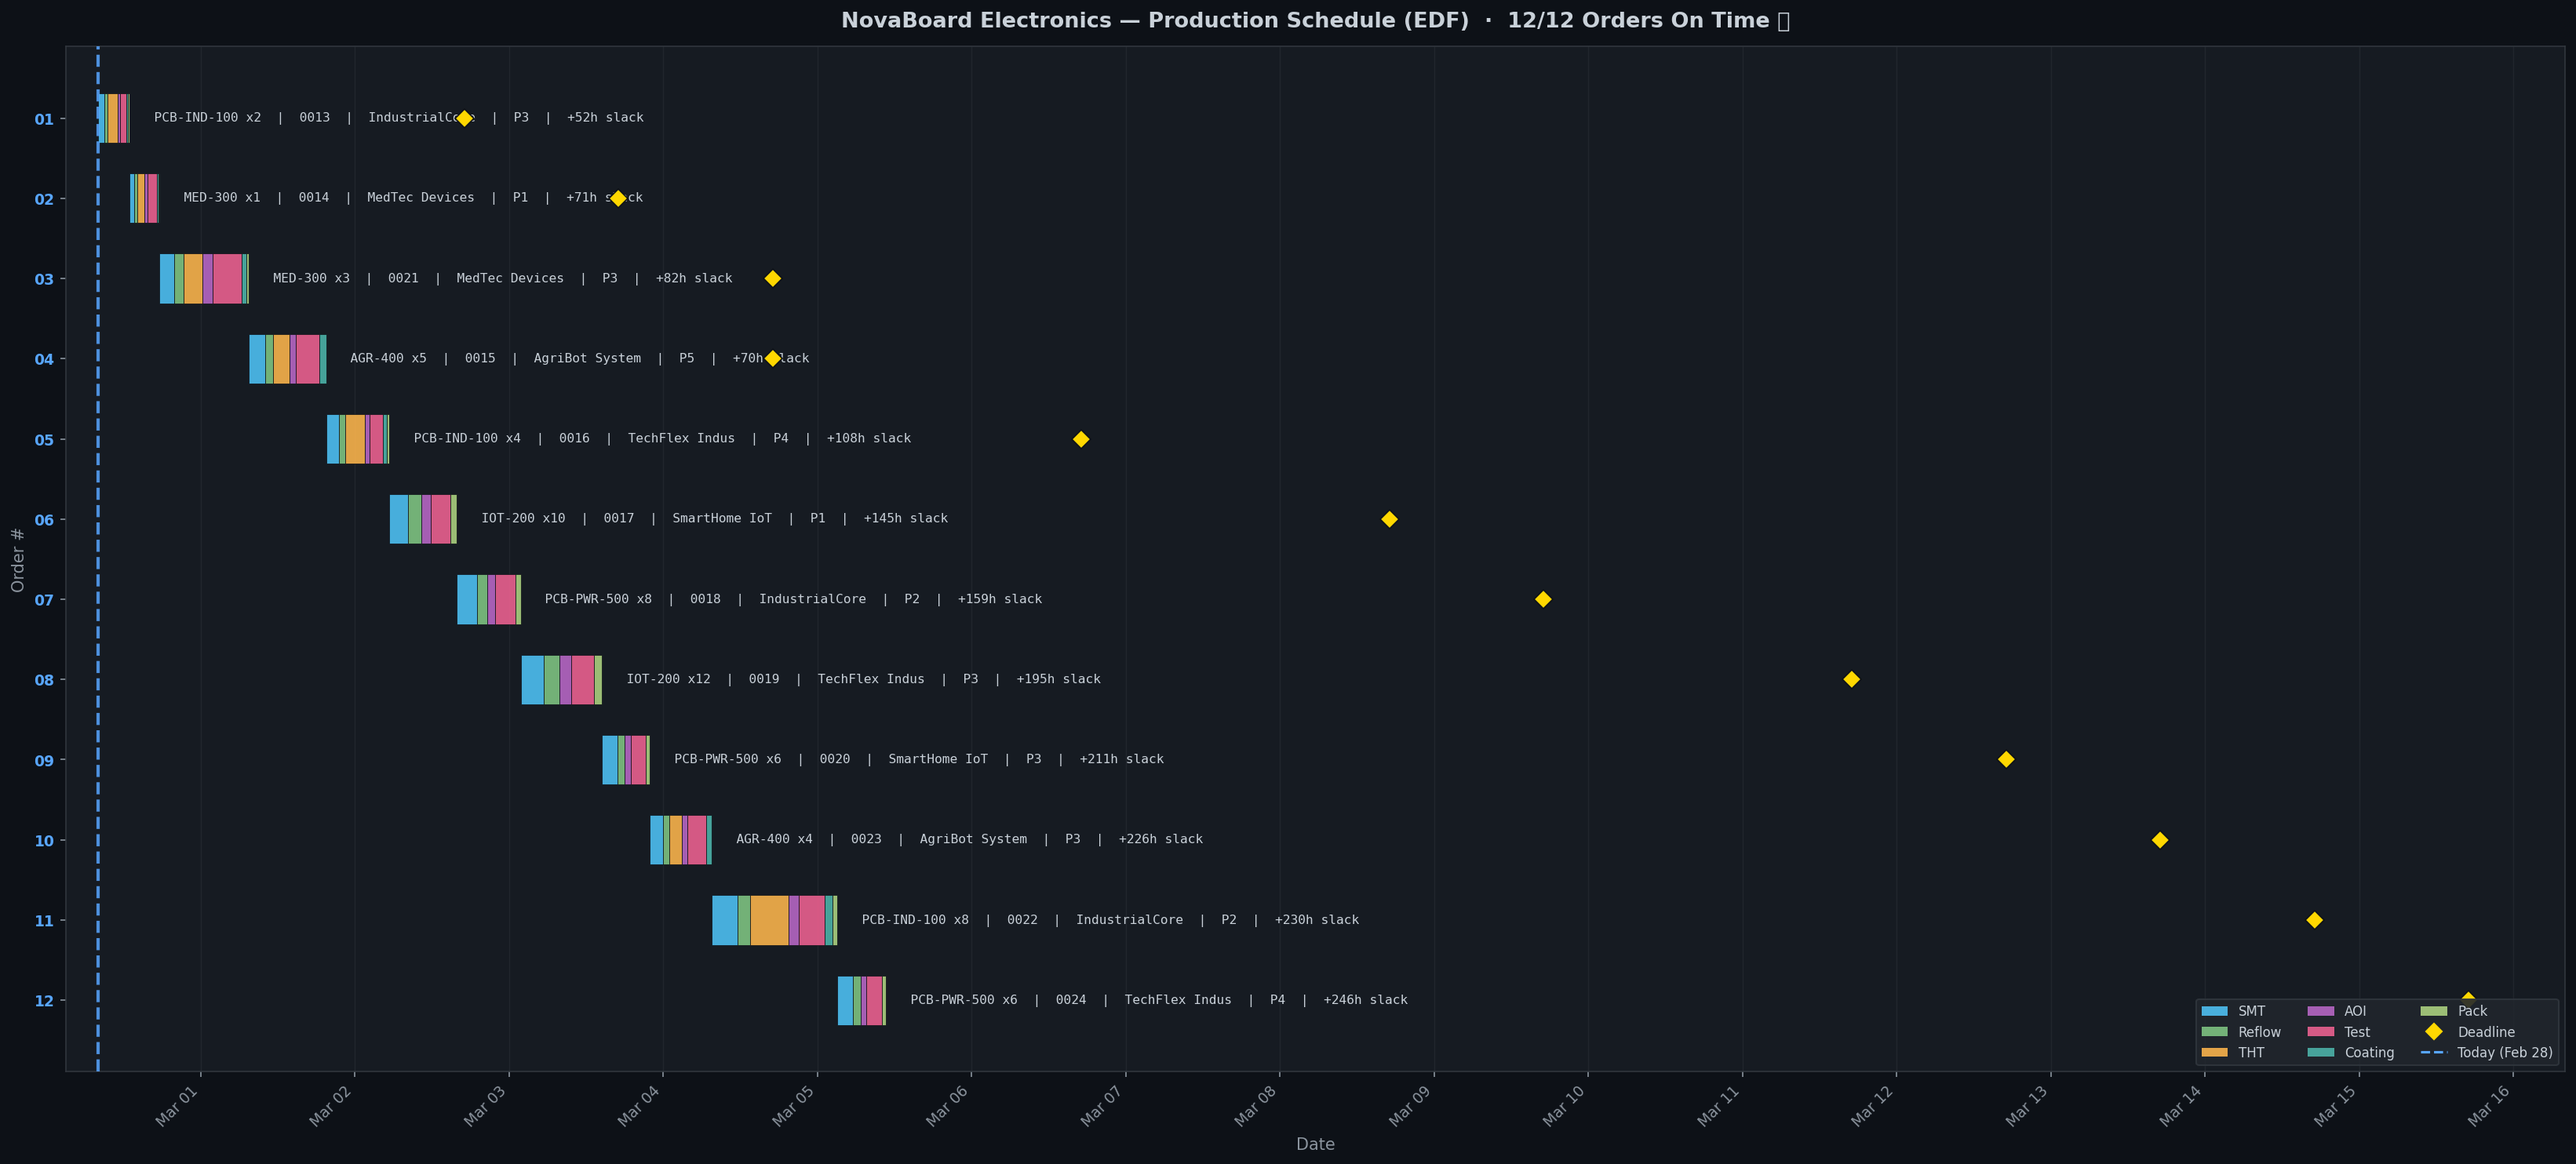
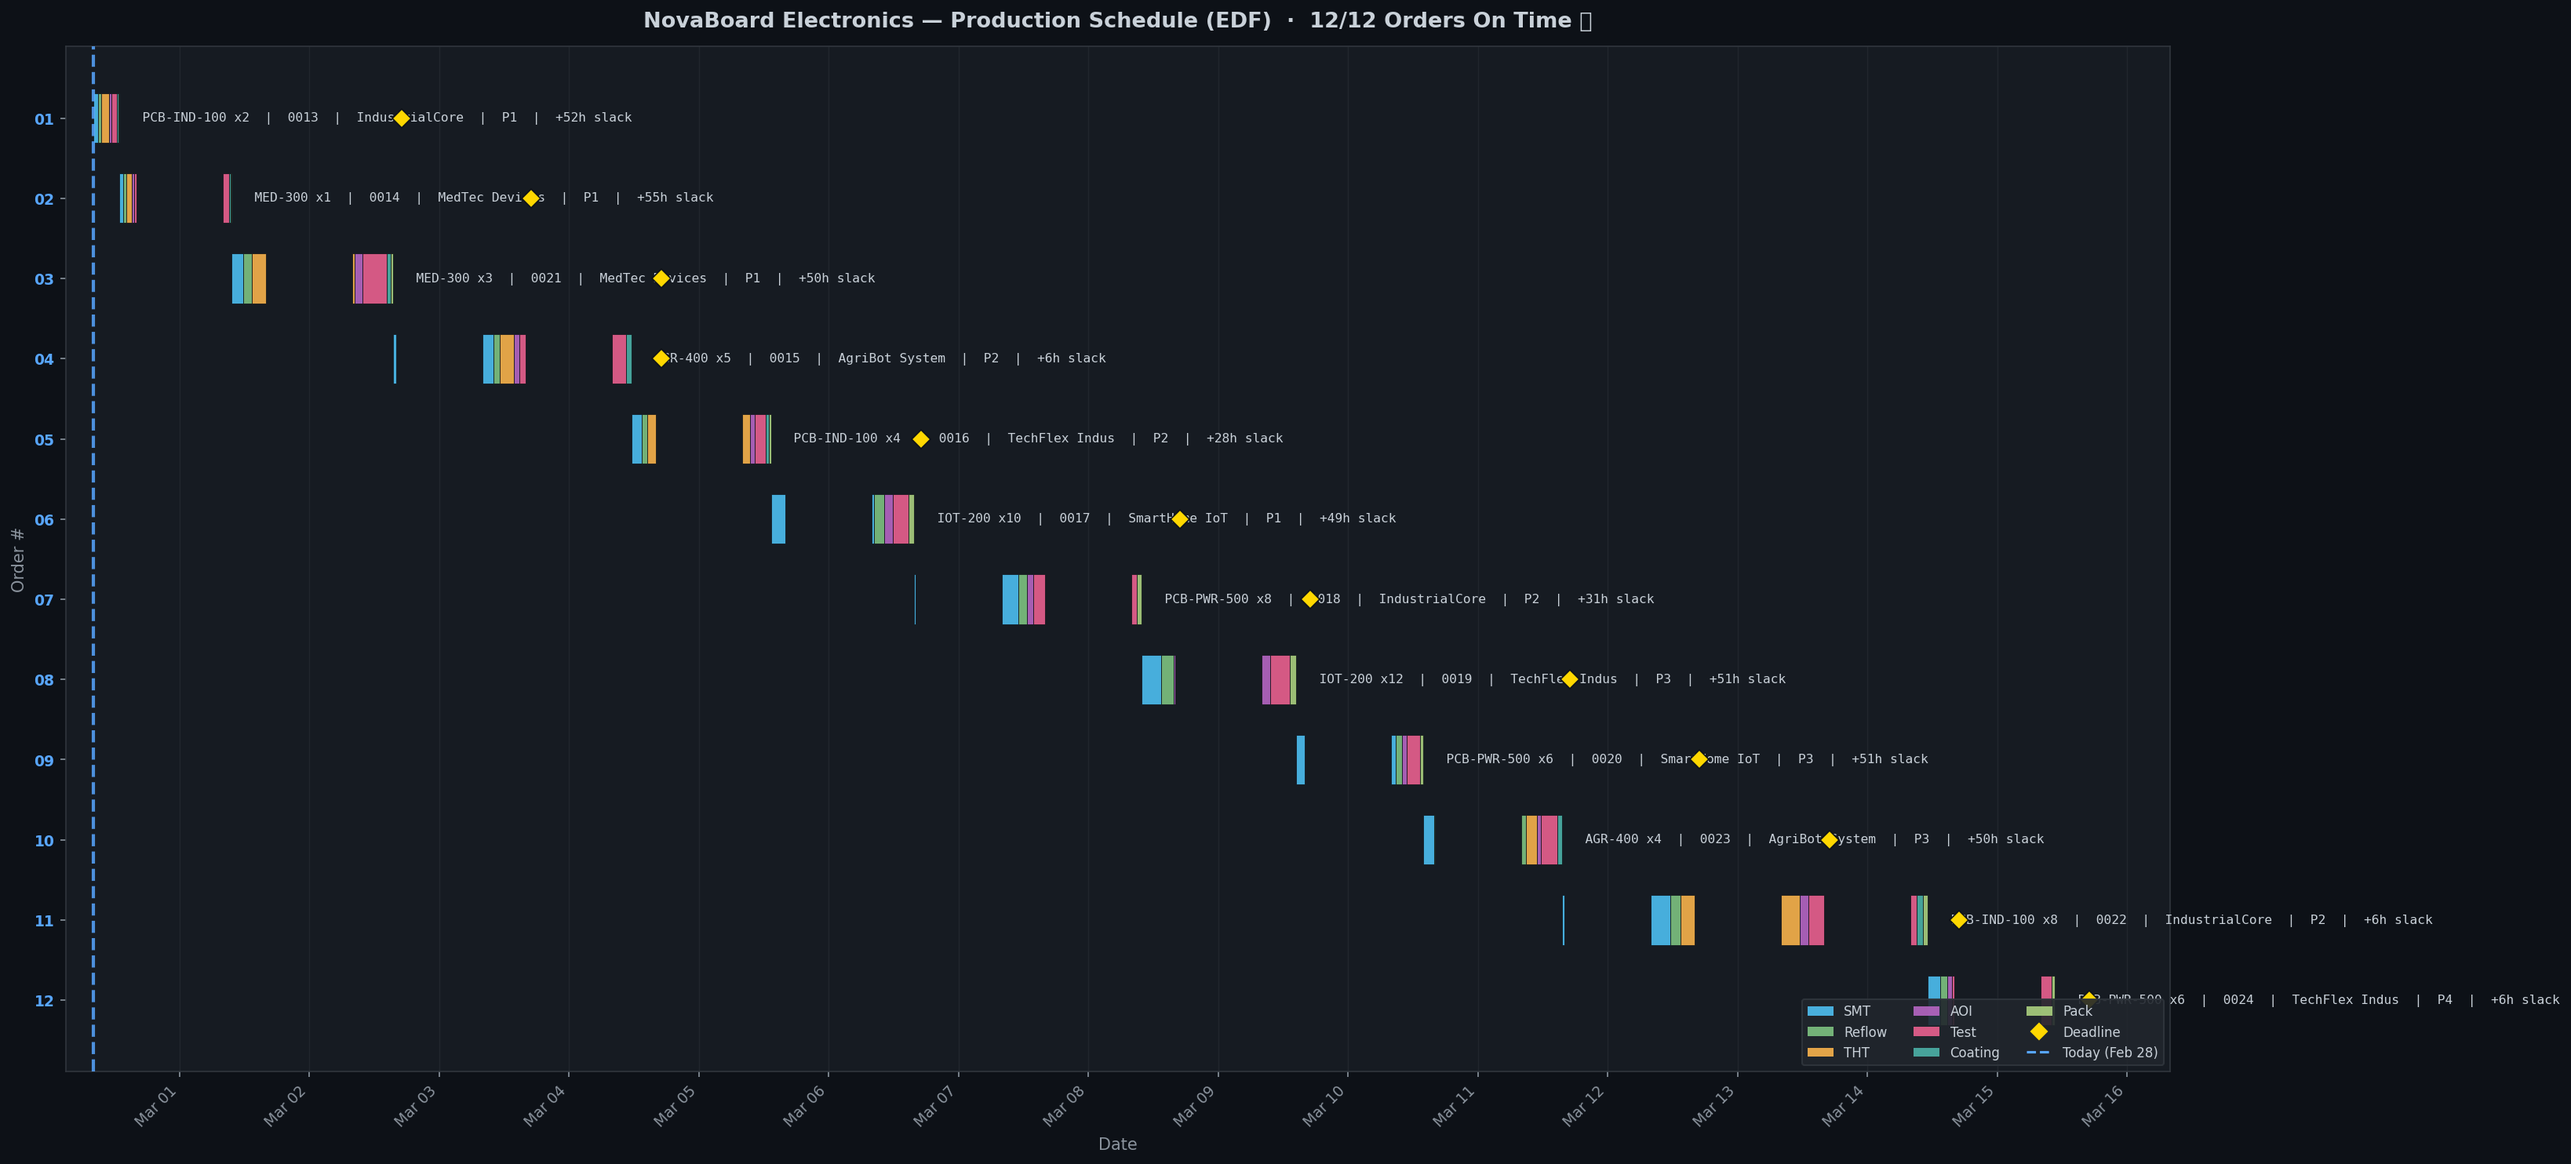
Step 3-4-5, main updated

diff --git a/docs/step3_4_create_order_schedule.py b/docs/step3_4_create_order_schedule.py
@@ -20,6 +20,60 @@ from step1_api_call import (
 from step2_plan_policy import detect_so005_conflict
 
 # ══════════════════════════════════════════════════════════════════════
+# WORKING HOURS HELPER
+#
+# The factory runs exactly 480 min/day (08:00–16:00), 7 days/week.
+# Raw timedelta arithmetic ignores the end-of-day boundary — this
+# function correctly carries remaining minutes to the next morning.
+#
+# Example:
+#   add_working_minutes(Feb 28 15:00, 120 min)
+#   → only 60 min left today (15:00→16:00)
+#   → 60 min remaining carry to Mar 1 08:00→09:00
+#   → returns Mar 1 09:00
+#
+# ══════════════════════════════════════════════════════════════════════
+DAY_START_HOUR = 8   # 08:00
+DAY_END_HOUR   = 16  # 16:00  (08:00 + 480 min)
+
+def add_working_minutes(start_dt, minutes):
+    """
+    Advance a datetime by `minutes` of working time, respecting the
+    08:00–16:00 shift. Rolls over to the next day's 08:00 when the
+    shift ends, consuming any leftover capacity first.
+
+    Args:
+        start_dt : timezone-aware datetime within a working shift
+        minutes  : total working minutes to add (>= 0)
+
+    Returns:
+        timezone-aware datetime after `minutes` of production time
+    """
+    current   = start_dt
+    remaining = minutes
+
+    while remaining > 0:
+        # How many minutes have already been used today since 08:00
+        elapsed_today    = (current.hour * 60 + current.minute) - (DAY_START_HOUR * 60)
+        # How many minutes remain in today's shift
+        left_in_shift    = MINUTES_PER_DAY - elapsed_today
+
+        if remaining <= left_in_shift:
+            # Fits entirely within today's remaining shift — done
+            current   = current + timedelta(minutes=remaining)
+            remaining = 0
+        else:
+            # Spills past 16:00 — consume today's remainder, jump to
+            # next day 08:00, and continue with what's left
+            remaining -= left_in_shift
+            current    = (current + timedelta(days=1)).replace(
+                hour=DAY_START_HOUR, minute=0, second=0, microsecond=0
+            )
+
+    return current
+
+
+# ══════════════════════════════════════════════════════════════════════
 # STEP 3+4 — Create production orders & schedule phases
 # ══════════════════════════════════════════════════════════════════════
 def build_product_map(token):
@@ -53,18 +107,27 @@ def set_phase_dates(token, phase_id, start_dt, end_dt):
     (starting_date / ending_date returned 500 errors)
     """
     fmt = "%Y-%m-%dT%H:%M:%SZ"
-    r1 = requests.post(
-        f"{ARKE_BASE_URL}/api/product/production-order-phase/{phase_id}/_update_starting_date",
-        json={"starts_at": start_dt.strftime(fmt)},
-        headers=get_headers(token)
-    )
-    r2 = requests.post(
+
+    # Important: update ending date *first*, then starting date.
+    # Arke validates that starting_date <= ending_date on each call.
+    # With 8h shifts we often push phases later than Arke's default plan.
+    # If we updated the start first, it could temporarily be > current end
+    # and trigger: "starting date cannot be after ending date".
+    r_end = requests.post(
         f"{ARKE_BASE_URL}/api/product/production-order-phase/{phase_id}/_update_ending_date",
         json={"ends_at": end_dt.strftime(fmt)},
         headers=get_headers(token)
     )
-    if not r1.ok: print(f"   ⚠  start date failed: {r1.status_code} {r1.text}")
-    if not r2.ok: print(f"   ⚠  end date failed:   {r2.status_code} {r2.text}")
+    r_start = requests.post(
+        f"{ARKE_BASE_URL}/api/product/production-order-phase/{phase_id}/_update_starting_date",
+        json={"starts_at": start_dt.strftime(fmt)},
+        headers=get_headers(token)
+    )
+
+    if not r_start.ok:
+        print(f"   ⚠  start date failed: {r_start.status_code} {r_start.text}")
+    if not r_end.ok:
+        print(f"   ⚠  end date failed:   {r_end.status_code} {r_end.text}")
 
 def create_and_schedule(token, order, current_time):
     product_id   = order['_product_id']
@@ -134,7 +197,10 @@ def create_and_schedule(token, order, current_time):
             continue
 
         total_mins = mins_per_u * quantity
-        phase_end  = phase_start + timedelta(minutes=total_mins)
+        # ── KEY FIX: use add_working_minutes instead of raw timedelta ──
+        # Raw timedelta would let phases run past 16:00 and overnight,
+        # violating the 480 min/day constraint. This respects the shift.
+        phase_end  = add_working_minutes(phase_start, total_mins)
 
         set_phase_dates(token, phase_id, phase_start, phase_end)
 
@@ -180,13 +246,36 @@ def schedule_all_orders(token, sorted_orders):
         if log_entry:
             schedule_log.append(log_entry)
 
+    # ── Summary with capacity warning ────────────────────────────────
+    on_time_count = sum(1 for e in schedule_log if e['on_time'])
+    late_entries  = [e for e in schedule_log if not e['on_time']]
+
     print("\n" + "="*65)
-    print("📋 FINAL SCHEDULE SUMMARY")
+    print("📋 FINAL SCHEDULE SUMMARY  (480 min/day · 08:00–16:00 shifts)")
     print("="*65)
     for e in schedule_log:
         status = "✅" if e['on_time'] else "❌ LATE"
+        slack  = (e['deadline'] - e['po_end']).total_seconds() / 3600
+        slack_str = f"+{slack:.0f}h" if e['on_time'] else f"{slack:.0f}h"
         print(f"  {e['so_id']} | {e['product_id']:<12} x{e['quantity']:<3} | "
               f"{e['po_start'].strftime('%b %d %H:%M')} → {e['po_end'].strftime('%b %d %H:%M')} | "
-              f"Deadline: {e['deadline'].strftime('%b %d')} {status}")
+              f"Deadline: {e['deadline'].strftime('%b %d')} | {slack_str:>6} | {status}")
+
+    print(f"\n  On time: {on_time_count}/{len(schedule_log)}")
+
+    if late_entries:
+        total_work = sum(
+            sum(v * e['quantity'] for v in PHASE_DURATIONS[e['product_id']].values())
+            for e in schedule_log
+        )
+        print(f"\n  ⚠  CAPACITY NOTE:")
+        print(f"     Total work required : {total_work:,} min = {total_work/MINUTES_PER_DAY:.1f} working days")
+        print(f"     {len(late_entries)} order(s) are late under the 480 min/day constraint.")
+        print(f"     EDF minimises maximum lateness — no reordering can fix a capacity shortfall.")
+        print(f"     Late orders:")
+        for e in late_entries:
+            late_by = (e['po_end'] - e['deadline']).total_seconds() / 3600
+            print(f"       {e['so_id']} | {e['product_id']} x{e['quantity']} | "
+                  f"late by {late_by:.1f}h")
 
     return schedule_log

diff --git a/docs/step5a_gant_chart.py b/docs/step5a_gant_chart.py
@@ -13,8 +13,7 @@ from step1_api_call import (
     TELEGRAM_TOKEN,
     TELEGRAM_CHAT_ID,
 )
-
-# ══════════════════════════════════════════════════════════════════════
+#  ══════════════════════════════════════════════════════════════════════
 # STEP 5a — Gantt chart
 #
 # Layout:
@@ -25,6 +24,39 @@ from step1_api_call import (
 #   - Blue dashed today line
 #   - Dark background (#0d1117) matching novaboard aesthetic
 # ══════════════════════════════════════════════════════════════════════
+DAY_START_HOUR = 8
+DAY_END_HOUR   = 16
+
+def split_into_working_segments(start_dt, end_dt):
+    """
+    Split a phase (start_dt → end_dt) into drawable segments covering
+    only working hours (08:00–16:00). The gaps between 16:00 and 08:00
+    are simply not drawn — the visual white space is the overnight break.
+
+    A phase like THT: Mar01 13:18 → Mar02 08:18 becomes:
+      [Mar01 13:18 → Mar01 16:00]   (2h 42min today)
+      [Mar02 08:00 → Mar02 08:18]   (18min tomorrow)
+    The 16-hour gap in between is invisible on the chart — correct.
+    """
+    segments = []
+    cursor   = start_dt
+
+    while cursor < end_dt:
+        day_end = cursor.replace(
+            hour=DAY_END_HOUR, minute=0, second=0, microsecond=0
+        )
+        if end_dt <= day_end:
+            segments.append((cursor, end_dt))
+            break
+        else:
+            segments.append((cursor, day_end))
+            cursor = (cursor + timedelta(days=1)).replace(
+                hour=DAY_START_HOUR, minute=0, second=0, microsecond=0
+            )
+
+    return segments
+
+
 def generate_gantt(schedule_log):
     fig, ax = plt.subplots(figsize=(22, 10))
     fig.patch.set_facecolor('#0d1117')
@@ -36,15 +68,18 @@ def generate_gantt(schedule_log):
         spine.set_edgecolor('#30363d')
 
     for i, entry in enumerate(schedule_log):
-        # Draw each phase as its own colored segment
-        # This makes phase breakdown visible at a glance
+        # Draw each phase split into working-hours segments.
+        # A phase that crosses midnight becomes 2+ bars with a visible
+        # gap between 16:00 and 08:00 — the overnight break.
         for phase in entry['phases']:
-            ps    = mdates.date2num(phase['start'])
-            pe    = mdates.date2num(phase['end'])
-            color = PHASE_COLORS.get(phase['name'], '#3498db')
-            ax.barh(i, pe - ps, left=ps, height=0.62,
-                    color=color, alpha=0.88,
-                    edgecolor='#0d1117', linewidth=0.4)
+            color    = PHASE_COLORS.get(phase['name'], '#3498db')
+            segments = split_into_working_segments(phase['start'], phase['end'])
+            for seg_start, seg_end in segments:
+                ps = mdates.date2num(seg_start)
+                pe = mdates.date2num(seg_end)
+                ax.barh(i, pe - ps, left=ps, height=0.62,
+                        color=color, alpha=0.88,
+                        edgecolor='#0d1117', linewidth=0.4)
 
         # Gold diamond at deadline — easy to spot vs bar end
         dl = mdates.date2num(entry['deadline'])
@@ -179,4 +214,3 @@ def wait_for_approval():
             return False
         else:
             print("   Please type 'approve' or 'reject'.")
-

diff --git a/docs/main.py b/docs/main.py
@@ -68,17 +68,15 @@ def main() -> None:
     generate_gantt(schedule_log)
     send_telegram(schedule_log)
 
-    # 6) Human-in-the-loop approval (this only gates the UI/flow;
-    #    if you also want to confirm production orders in Arke,
-    #    call confirm_production_orders from step1_api_call.py here.)
-    approved = wait_for_approval()
-    if not approved:
-        print("❌ Planner rejected schedule. Exiting without confirmation.")
-        return
+    # 6) Human-in-the-loop approval 
+    # Uncomment to enable Telegram approval flow:
+    # send_telegram(schedule_log)
+    # approved = wait_for_approval()
+    # if approved:
+    #     print("\n Production confirmed. Ready for physical integration (Step 6).")
+    # else:
+    #     print("\n Schedule rejected — adjust and rerun.")
 
-    print("✅ Planner approved schedule.")
-    # Optional: from step1_api_call import confirm_production_orders
-    # confirm_production_orders(token, schedule_log)
 
 
 if __name__ == "__main__":
